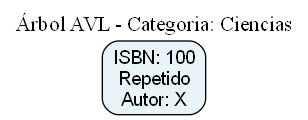
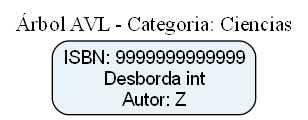
feat: Corregir nuevos elementos

Changed region(s): [[0.1753, 0.325, 0.8474, 0.975], [0.3799, 0.75, 0.6136, 0.9], [0.1461, 0.425, 0.1753, 0.875]]

diff --git a/Proyecto2/Pages/Catalogo.cshtml.cs b/Proyecto2/Pages/Catalogo.cshtml.cs
@@ -5,12 +5,13 @@ using System.IO;
 using System.Threading.Tasks;
 using System.Diagnostics;
 
-namespace Proyecto2.Pages
+namespace Proyecto2
 {
     public class CatalogoModel : PageModel
     {
         private readonly Catalogo _catalogo;
         private readonly Xml _xmlService;
+        private ListaLibros _libro;
 
         public CatalogoModel(Catalogo catalogo, Xml xmlService)
         {
@@ -23,13 +24,13 @@ namespace Proyecto2.Pages
         [BindProperty] public string NuevaCategoria { get; set; }
         [BindProperty] public string CategoriaPadre { get; set; }
 
-        [BindProperty] public int Isbn { get; set; }
+        [BindProperty] public long Isbn { get; set; }
         [BindProperty] public string Titulo { get; set; }
         [BindProperty] public string Autor { get; set; }
         [BindProperty] public string CategoriaNombre { get; set; }
 
-        [BindProperty] public int IsbnBuscado { get; set; }
-        [BindProperty] public int IsbnAEliminar { get; set; }
+        [BindProperty] public long IsbnBuscado { get; set; }
+        [BindProperty] public long IsbnAEliminar { get; set; }
         [BindProperty] public string CategoriaParaEliminar { get; set; }
         
         // Resultados para mostrar en la vista
@@ -87,9 +88,7 @@ namespace Proyecto2.Pages
                     _xmlService.ProcesarArchivoXml(rutaTemporal);
                     if (System.IO.File.Exists(rutaTemporal)) System.IO.File.Delete(rutaTemporal);
                     
-                    Mensaje = "¡Archivo XML procesado e integrado exitosamente!";
-                    
-                    // Generar los reportes visuales inmediatamente después de procesar el XML
+                    Mensaje = "¡Archivo XML procesado e integrado exitosamente aplicando restricciones y linking diferido!";
                     GenerarReportesVisuales();
                 }
                 catch (Exception ex)
@@ -109,8 +108,15 @@ namespace Proyecto2.Pages
         {
             if (!string.IsNullOrEmpty(NuevaCategoria))
             {
-                _catalogo.ObtenerOCrearCategoria(NuevaCategoria, CategoriaPadre);
-                Mensaje = $"Categoría '{NuevaCategoria}' agregada o enlazada correctamente.";
+                var resultado = _catalogo.ObtenerOCrearCategoria(NuevaCategoria, CategoriaPadre);
+                if (resultado != null)
+                {
+                    Mensaje = $"Categoría '{NuevaCategoria}' agregada o enlazada correctamente.";
+                }
+                else
+                {
+                    Mensaje = $"No se pudo crear la categoría '{NuevaCategoria}'. Verifique que el padre exista.";
+                }
                 GenerarReportesVisuales();
             }
             return Page();
@@ -121,8 +127,15 @@ namespace Proyecto2.Pages
         {
             if (Isbn > 0 && !string.IsNullOrEmpty(Titulo) && !string.IsNullOrEmpty(CategoriaNombre))
             {
-                _catalogo.RegistrarLibro(Isbn, Titulo, Autor, CategoriaNombre);
-                Mensaje = $"Libro con ISBN {Isbn} registrado exitosamente.";
+                bool exito = _catalogo.RegistrarLibro(Isbn, Titulo, Autor, CategoriaNombre);
+                if (exito)
+                {
+                    Mensaje = $"Libro con ISBN {Isbn} registrado exitosamente.";
+                }
+                else
+                {
+                    Mensaje = $"Error: El ISBN {Isbn} ya existe globalmente o la categoría '{CategoriaNombre}' no existe.";
+                }
                 GenerarReportesVisuales();
             }
             else
@@ -135,12 +148,17 @@ namespace Proyecto2.Pages
         // Opción: Eliminar Libro
         public IActionResult OnPostEliminarLibro()
         {
+
             if (IsbnAEliminar > 0 && !string.IsNullOrEmpty(CategoriaParaEliminar))
             {
                 var cat = _catalogo.RaizCategorias.Buscar(CategoriaParaEliminar);
-                if (cat != null)
+                var libroGlobal=_catalogo.TodosLosLibrosGlobal.BuscarPorIsbn(IsbnAEliminar);
+
+                if (cat != null && libroGlobal!= null)
                 {
+                    
                     cat.LibrosAsociados.Eliminar(IsbnAEliminar);
+                   _catalogo.TodosLosLibrosGlobal.eliminar(IsbnAEliminar);
                     Mensaje = $"Libro con ISBN {IsbnAEliminar} eliminado de la categoría '{CategoriaParaEliminar}'.";
                     GenerarReportesVisuales();
                 }

diff --git a/Proyecto2/Catalogo.cs b/Proyecto2/Catalogo.cs
@@ -17,53 +17,57 @@ namespace Proyecto2
             
             nombreCategoria = nombreCategoria.Trim();
             NodoCategoria encontrada = RaizCategorias.Buscar(nombreCategoria);
-            if (encontrada != null) return encontrada;
-
-            NodoCategoria nuevaCat = new NodoCategoria(nombreCategoria);
-
-            if (string.IsNullOrEmpty(nombrePadre))
+            if (encontrada != null) {return encontrada;}
+            
+           
+            if(!string.IsNullOrEmpty(nombrePadre))
             {
-                RaizCategorias.Insertar(nuevaCat);
+                nombrePadre=nombrePadre.Trim();
+                NodoCategoria padre =RaizCategorias.Buscar(nombrePadre);
+
+                if(padre== null)
+                {
+                    return null;
+                }
+                 NodoCategoria nuevaCat = new NodoCategoria(nombreCategoria);
+                 padre.SubCategorias.Insertar(nuevaCat);
+                 return nuevaCat;
+
             }
             else
             {
-                nombrePadre = nombrePadre.Trim();
-                NodoCategoria padre = RaizCategorias.Buscar(nombrePadre);
-                if (padre != null)
-                {
-                    padre.SubCategorias.Insertar(nuevaCat);
-                }
-                else
-                {
-                    NodoCategoria nuevoPadre = new NodoCategoria(nombrePadre);
-                    nuevoPadre.SubCategorias.Insertar(nuevaCat);
-                    RaizCategorias.Insertar(nuevoPadre);
-                }
+                NodoCategoria nuevaCat=new NodoCategoria(nombreCategoria);
+                RaizCategorias.Insertar(nuevaCat);
+                return nuevaCat;
             }
 
-            return nuevaCat;
+
         }
 
-        public void RegistrarLibro(long isbn, string titulo, string autor, string nombreCategoria)
+        public bool RegistrarLibro(long isbn, string titulo, string autor, string nombreCategoria)
         {
-            if (string.IsNullOrWhiteSpace(nombreCategoria)) return;
+            
+            if (string.IsNullOrWhiteSpace(nombreCategoria)) return false;
 
+            if(TodosLosLibrosGlobal.BuscarPorIsbn(isbn)!=null)
+            {
+                return false;
+            }
+
+            NodoCategoria cat=RaizCategorias.Buscar(nombreCategoria);
+            if(cat==null)
+            {
+                return false;
+            }
             Libro nuevoLibro = new Libro(isbn, titulo, autor, nombreCategoria);
             
-            // Insertar en la lista global
+         
             TodosLosLibrosGlobal.Insertar(nuevoLibro);
+            cat.LibrosAsociados.Insertar(nuevoLibro);
+            return true;
 
-            // Buscar o crear la categoría y asociar el libro
-            NodoCategoria cat = RaizCategorias.Buscar(nombreCategoria);
-            if (cat != null)
-            {
-                cat.LibrosAsociados.Insertar(nuevoLibro);
-            }
-            else
-            {
-                NodoCategoria nuevaCat = ObtenerOCrearCategoria(nombreCategoria, null);
-                nuevaCat.LibrosAsociados.Insertar(nuevoLibro);
-            }
+    
+           
         }
     }
 }

diff --git a/Proyecto2/listalibros.cs b/Proyecto2/listalibros.cs
@@ -87,5 +87,78 @@ namespace Proyecto2
             }
             return mayor;
         }
+
+        public void eliminar(long isbn)
+        {
+            if (Cabeza == null) return;
+
+            if (Cabeza.Valor.Isbn == isbn)
+            {
+                Cabeza = Cabeza.Siguiente;
+                Tamanio--;
+                return;
+            }
+
+            NodoLibro actual = Cabeza;
+            while (actual.Siguiente != null)
+            {
+                if (actual.Siguiente.Valor.Isbn == isbn)
+                {
+                    actual.Siguiente = actual.Siguiente.Siguiente;
+                    Tamanio--;
+                    return;
+                }
+                actual = actual.Siguiente;
+            }
+        }
+
+
+        public string GenerarDot(string nombreCategoria)
+        {
+            var dot = new System.Text.StringBuilder();
+            dot.AppendLine("digraph G {");
+            dot.AppendLine("node [shape=box, style=filled, fillcolor=lightblue];");
+            dot.AppendLine($"label=\"Libros de la Categoría: {nombreCategoria}\";");
+            
+            NodoLibro actual = Cabeza;
+            int id = 0;
+            string nodoAnterior = null;
+
+            while (actual != null)
+            {
+                string nombreNodo = $"nodo_{id}";
+                dot.AppendLine($"{nombreNodo} [label=\"ISBN: {actual.Valor.Isbn}\\nTítulo: {actual.Valor.Titulo}\\nAutor: {actual.Valor.Autor}\"];");
+                
+                if (nodoAnterior != null)
+                {
+                    dot.AppendLine($"{nodoAnterior} -> {nombreNodo};");
+                }
+                
+                nodoAnterior = nombreNodo;
+                actual = actual.Siguiente;
+                id++;
+            }
+
+            dot.AppendLine("}");
+            return dot.ToString();
+        }
+
+        public string ObtenerLibrosOrdenadosInOrder()
+        {
+            if (Cabeza == null) return "<p class='text-muted'>No hay libros asociados a esta categoría.</p>";
+
+            var html = new System.Text.StringBuilder();
+            html.AppendLine("<ul class='list-group'>");
+
+            NodoLibro actual = Cabeza;
+            while (actual != null)
+            {
+                html.AppendLine($"<li class='list-group-item'><strong>ISBN:</strong> {actual.Valor.Isbn} | <strong>Título:</strong> {actual.Valor.Titulo} | <strong>Autor:</strong> {actual.Valor.Autor}</li>");
+                actual = actual.Siguiente;
+            }
+
+            html.AppendLine("</ul>");
+            return html.ToString();
+        }
     }
 }
